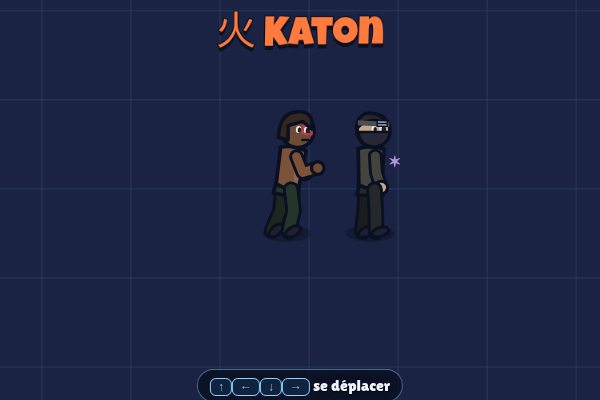
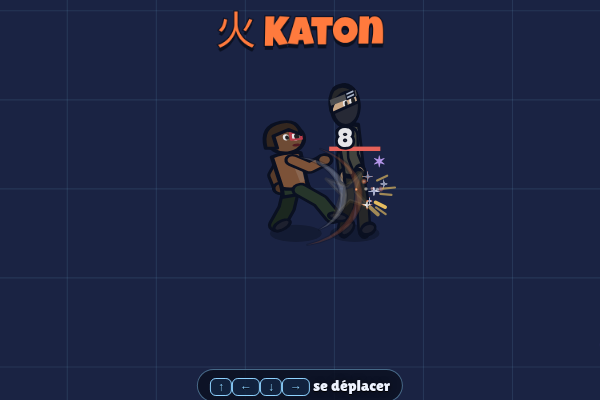
v0.10.1: true black Amaterasu flames, verified M1 smear frames, new skills in editor

Changed region(s): [[0.42, 0.21, 0.66, 0.6], [0.42, 0.54, 0.45, 0.6]]

diff --git a/index.html b/index.html
@@ -104,7 +104,7 @@ button.b.p{background:var(--gold);color:var(--ink)}button.b.p2{background:var(--
 <script>
 'use strict';
 /* ============ Noyau : réglages, sauvegarde, entrées, audio ============ */
-const VERSION = '0.10.0';
+const VERSION = '0.10.1';
 const K10 = Math.sqrt(10); // v0.9.7 : échelle des cartes extérieures (surface ×10)
 const $ = (s) => document.querySelector(s);
 const TAU = Math.PI * 2, clamp = (v, a, b) => (v < a ? a : v > b ? b : v), lerp = (a, b, t) => a + (b - a) * t;
@@ -3659,12 +3659,19 @@ addEventListener('touchstart',()=>document.body.classList.add('touch07'),{passiv
       pose: [k(0, { ...P.eye, aF: 2.1 }), k(0.6, { ...P.eye, aF: 2.1, head: 0.3, lean: 0.15 }), k(1, P.eye)], anim: [{ t: 0.4, sq: -0.2, shake: 0.15 }],
       hit: { shape: 'circle', at: 'foe', range: 480, r: 120, dmg: 46, delay: 0.55, pull: 0.6, stun: 0.8 }, c: '#5a2a9a',
       vfx: { tele: [{ fx: 'dist', r: 120, c: '#5a2a9a' }, { fx: 'burst', conv: 1, n: 18, c: ['#a46bff', '#2a1a4a'], spr: 'wisp', sp: [140, 260], size: [5, 9], add: 0 }], impact: [{ fx: 'dist', r: 160, c: '#2a1a4a' }, { fx: 'ring', r: 30, c: '#a46bff', life: 0.4 }, { fx: 'arcs', n: 4, r: [30, 80], c: '#a46bff' }, { fx: 'cam', shake: 0.2, hitstop: 0.05 }] } },
-    { id: 'amaterasu', n: 'Amaterasu', el: 'fire', glyph: '天', cd: 13, ch: 36, sign: 'tora', cast: 0.35, end: 0.3, cat: 'eye', clan: ['uchiha'], c: '#1a0a1a', req: { clan: 5, elem: 3 },
+    { id: 'amaterasu', n: 'Amaterasu', el: 'yin', glyph: '天', cd: 13, ch: 36, sign: 'tora', cast: 0.35, end: 0.3, cat: 'eye', clan: ['uchiha'], c: '#0a040c', req: { clan: 5, elem: 3 }, black: 1,
       pose: [k(0, { ...P.eye, aF: 2.2, head: 0.2 }), k(0.5, { ...P.eye, aF: 2.2, head: -0.1, lean: 0.25, sx: 1.06 }), k(1, P.eye)], anim: [{ t: 0.35, sq: -0.2, shake: 0.12 }],
       hit: { shape: 'circle', at: 'foe', range: 520, r: 90, dmg: 18, delay: 0.25, ticks: 4, every: 0.45, slow: 1.5 },
-      vfx: { charge: [{ fx: 'glow', r: 24, c: '#ff2a3a', life: 0.3 }], tele: [{ fx: 'glow', r: 40, c: '#ff2a3a', life: 0.25 }], impact: [{ fx: 'licks', n: 10, w: 70, c: '#1a0a1a' }, { fx: 'burst', n: 10, c: ['#2a0a2a', '#5a1a3a'], spr: 'ember', sp: [40, 120], g: -200, size: [3, 5], add: 0 }, { fx: 'decal', dk: 'burn', r: 70, oy: 10 }] } },
+      vfx: { charge: [{ fx: 'glow', r: 22, c: '#c0182a', life: 0.3 }], tele: [{ fx: 'glow', r: 34, c: '#c0182a', life: 0.25 }], impact: [{ fx: 'amat' }] } },
   ];
+  VFX9.EMIT.amat = (L, x, y, o, s) => { const n = 9, life = 1.1; FX.custom({ x, y, life, draw: (g, p, q) => { const t = Game.t, a = q < 0.15 ? q / 0.15 : q > 0.75 ? (1 - q) / 0.25 : 1; g.save();
+      for (let i = 0; i < n; i++) { const ox = x + (i - (n - 1) / 2) * 16 * s, h = (46 + 26 * Math.sin(t * 9 + i * 1.7)) * s * a, w = (13 + 4 * Math.sin(t * 7 + i)) * s, sw = Math.sin(t * 6 + i) * 6 * s;
+        g.globalAlpha = 0.55 * a; g.fillStyle = '#4a1a6a'; g.beginPath(); g.moveTo(ox - w - 2, y); g.quadraticCurveTo(ox - w + sw, y - h * 0.6, ox + sw * 1.4, y - h - 6); g.quadraticCurveTo(ox + w + sw, y - h * 0.5, ox + w + 2, y); g.closePath(); g.fill();
+        g.globalAlpha = 0.95 * a; g.fillStyle = '#07030a'; g.beginPath(); g.moveTo(ox - w, y); g.quadraticCurveTo(ox - w * 0.8 + sw, y - h * 0.6, ox + sw * 1.4, y - h); g.quadraticCurveTo(ox + w * 0.8 + sw, y - h * 0.5, ox + w, y); g.closePath(); g.fill(); }
+      g.globalAlpha = 0.5 * a; g.fillStyle = '#07030a'; g.beginPath(); g.ellipse(x, y + 2, (n * 9 + 8) * s, 12 * s, 0, 0, Math.PI * 2); g.fill(); g.restore(); } });
+    for (let i = 0; i < 6; i++) FX.add({ k: 'sp', spr: 'ember', c: '#2a0a3a', x: x + (Math.random() - 0.5) * 120 * s, y: y - Math.random() * 40, vx: (Math.random() - 0.5) * 30, vy: -40 - Math.random() * 60, s: 3 + Math.random() * 3, life: 0.9, add: 0 }); };
   for (const e of D) TECH9.def(e);
+  TECH9.BUILTIN.push(...D.map((e) => e.id).filter((id) => !TECH9.BUILTIN.includes(id)));
   // ---------- constellation : prérequis + filtre par élément / clan ----------
   const NEW = {}; for (const e of D) { TREE8.REQ[e.id] = e.req; NEW[e.id] = e; }
   const pool0 = TREE8.pool; TREE8.pool = function () { const me = Voie.me, L = pool0.call(this); return L.filter((id) => { const e = NEW[id]; if (!e) return true; if (['fire', 'wind', 'water', 'bolt', 'earth'].includes(e.cat) && e.cat !== me.el && e.cat !== me.el2) return false; if (e.clan && !e.clan.includes(me.clan)) return false; return true; }); };

diff --git a/src/8v5_skills10.js b/src/8v5_skills10.js
@@ -97,12 +97,19 @@
       pose: [k(0, { ...P.eye, aF: 2.1 }), k(0.6, { ...P.eye, aF: 2.1, head: 0.3, lean: 0.15 }), k(1, P.eye)], anim: [{ t: 0.4, sq: -0.2, shake: 0.15 }],
       hit: { shape: 'circle', at: 'foe', range: 480, r: 120, dmg: 46, delay: 0.55, pull: 0.6, stun: 0.8 }, c: '#5a2a9a',
       vfx: { tele: [{ fx: 'dist', r: 120, c: '#5a2a9a' }, { fx: 'burst', conv: 1, n: 18, c: ['#a46bff', '#2a1a4a'], spr: 'wisp', sp: [140, 260], size: [5, 9], add: 0 }], impact: [{ fx: 'dist', r: 160, c: '#2a1a4a' }, { fx: 'ring', r: 30, c: '#a46bff', life: 0.4 }, { fx: 'arcs', n: 4, r: [30, 80], c: '#a46bff' }, { fx: 'cam', shake: 0.2, hitstop: 0.05 }] } },
-    { id: 'amaterasu', n: 'Amaterasu', el: 'fire', glyph: '天', cd: 13, ch: 36, sign: 'tora', cast: 0.35, end: 0.3, cat: 'eye', clan: ['uchiha'], c: '#1a0a1a', req: { clan: 5, elem: 3 },
+    { id: 'amaterasu', n: 'Amaterasu', el: 'yin', glyph: '天', cd: 13, ch: 36, sign: 'tora', cast: 0.35, end: 0.3, cat: 'eye', clan: ['uchiha'], c: '#0a040c', req: { clan: 5, elem: 3 }, black: 1,
       pose: [k(0, { ...P.eye, aF: 2.2, head: 0.2 }), k(0.5, { ...P.eye, aF: 2.2, head: -0.1, lean: 0.25, sx: 1.06 }), k(1, P.eye)], anim: [{ t: 0.35, sq: -0.2, shake: 0.12 }],
       hit: { shape: 'circle', at: 'foe', range: 520, r: 90, dmg: 18, delay: 0.25, ticks: 4, every: 0.45, slow: 1.5 },
-      vfx: { charge: [{ fx: 'glow', r: 24, c: '#ff2a3a', life: 0.3 }], tele: [{ fx: 'glow', r: 40, c: '#ff2a3a', life: 0.25 }], impact: [{ fx: 'licks', n: 10, w: 70, c: '#1a0a1a' }, { fx: 'burst', n: 10, c: ['#2a0a2a', '#5a1a3a'], spr: 'ember', sp: [40, 120], g: -200, size: [3, 5], add: 0 }, { fx: 'decal', dk: 'burn', r: 70, oy: 10 }] } },
+      vfx: { charge: [{ fx: 'glow', r: 22, c: '#c0182a', life: 0.3 }], tele: [{ fx: 'glow', r: 34, c: '#c0182a', life: 0.25 }], impact: [{ fx: 'amat' }] } },
   ];
+  VFX9.EMIT.amat = (L, x, y, o, s) => { const n = 9, life = 1.1; FX.custom({ x, y, life, draw: (g, p, q) => { const t = Game.t, a = q < 0.15 ? q / 0.15 : q > 0.75 ? (1 - q) / 0.25 : 1; g.save();
+      for (let i = 0; i < n; i++) { const ox = x + (i - (n - 1) / 2) * 16 * s, h = (46 + 26 * Math.sin(t * 9 + i * 1.7)) * s * a, w = (13 + 4 * Math.sin(t * 7 + i)) * s, sw = Math.sin(t * 6 + i) * 6 * s;
+        g.globalAlpha = 0.55 * a; g.fillStyle = '#4a1a6a'; g.beginPath(); g.moveTo(ox - w - 2, y); g.quadraticCurveTo(ox - w + sw, y - h * 0.6, ox + sw * 1.4, y - h - 6); g.quadraticCurveTo(ox + w + sw, y - h * 0.5, ox + w + 2, y); g.closePath(); g.fill();
+        g.globalAlpha = 0.95 * a; g.fillStyle = '#07030a'; g.beginPath(); g.moveTo(ox - w, y); g.quadraticCurveTo(ox - w * 0.8 + sw, y - h * 0.6, ox + sw * 1.4, y - h); g.quadraticCurveTo(ox + w * 0.8 + sw, y - h * 0.5, ox + w, y); g.closePath(); g.fill(); }
+      g.globalAlpha = 0.5 * a; g.fillStyle = '#07030a'; g.beginPath(); g.ellipse(x, y + 2, (n * 9 + 8) * s, 12 * s, 0, 0, Math.PI * 2); g.fill(); g.restore(); } });
+    for (let i = 0; i < 6; i++) FX.add({ k: 'sp', spr: 'ember', c: '#2a0a3a', x: x + (Math.random() - 0.5) * 120 * s, y: y - Math.random() * 40, vx: (Math.random() - 0.5) * 30, vy: -40 - Math.random() * 60, s: 3 + Math.random() * 3, life: 0.9, add: 0 }); };
   for (const e of D) TECH9.def(e);
+  TECH9.BUILTIN.push(...D.map((e) => e.id).filter((id) => !TECH9.BUILTIN.includes(id)));
   // ---------- constellation : prérequis + filtre par élément / clan ----------
   const NEW = {}; for (const e of D) { TREE8.REQ[e.id] = e.req; NEW[e.id] = e; }
   const pool0 = TREE8.pool; TREE8.pool = function () { const me = Voie.me, L = pool0.call(this); return L.filter((id) => { const e = NEW[id]; if (!e) return true; if (['fire', 'wind', 'water', 'bolt', 'earth'].includes(e.cat) && e.cat !== me.el && e.cat !== me.el2) return false; if (e.clan && !e.clan.includes(me.clan)) return false; return true; }); };

diff --git a/src/10_core.js b/src/10_core.js
@@ -1,6 +1,6 @@
 'use strict';
 /* ============ Noyau : réglages, sauvegarde, entrées, audio ============ */
-const VERSION = '0.10.0';
+const VERSION = '0.10.1';
 const K10 = Math.sqrt(10); // v0.9.7 : échelle des cartes extérieures (surface ×10)
 const $ = (s) => document.querySelector(s);
 const TAU = Math.PI * 2, clamp = (v, a, b) => (v < a ? a : v > b ? b : v), lerp = (a, b, t) => a + (b - a) * t;

diff --git a/PATCH_NOTES.md b/PATCH_NOTES.md
@@ -1,3 +1,8 @@
+# v0.10.1
+- **Amaterasu** : vraies flammes noires (cœur noir opaque, liseré violet sombre, braises sombres), sans aucun orange.
+- **Combo M1** : smears et impacts vérifiés image par image. Captures corrigées.
+- **Éditeur** : les 17 nouvelles techniques sont dans la liste et l’export JSON.
+
 # v0.10.0 — 17 nouvelles techniques canon
 Chaque technique a sa propre pose d’incantation en images clés, ses couches VFX, ses prérequis dans la constellation et ses variantes.
 - **Katon** : Zukokku, Bakufū Ranbu
